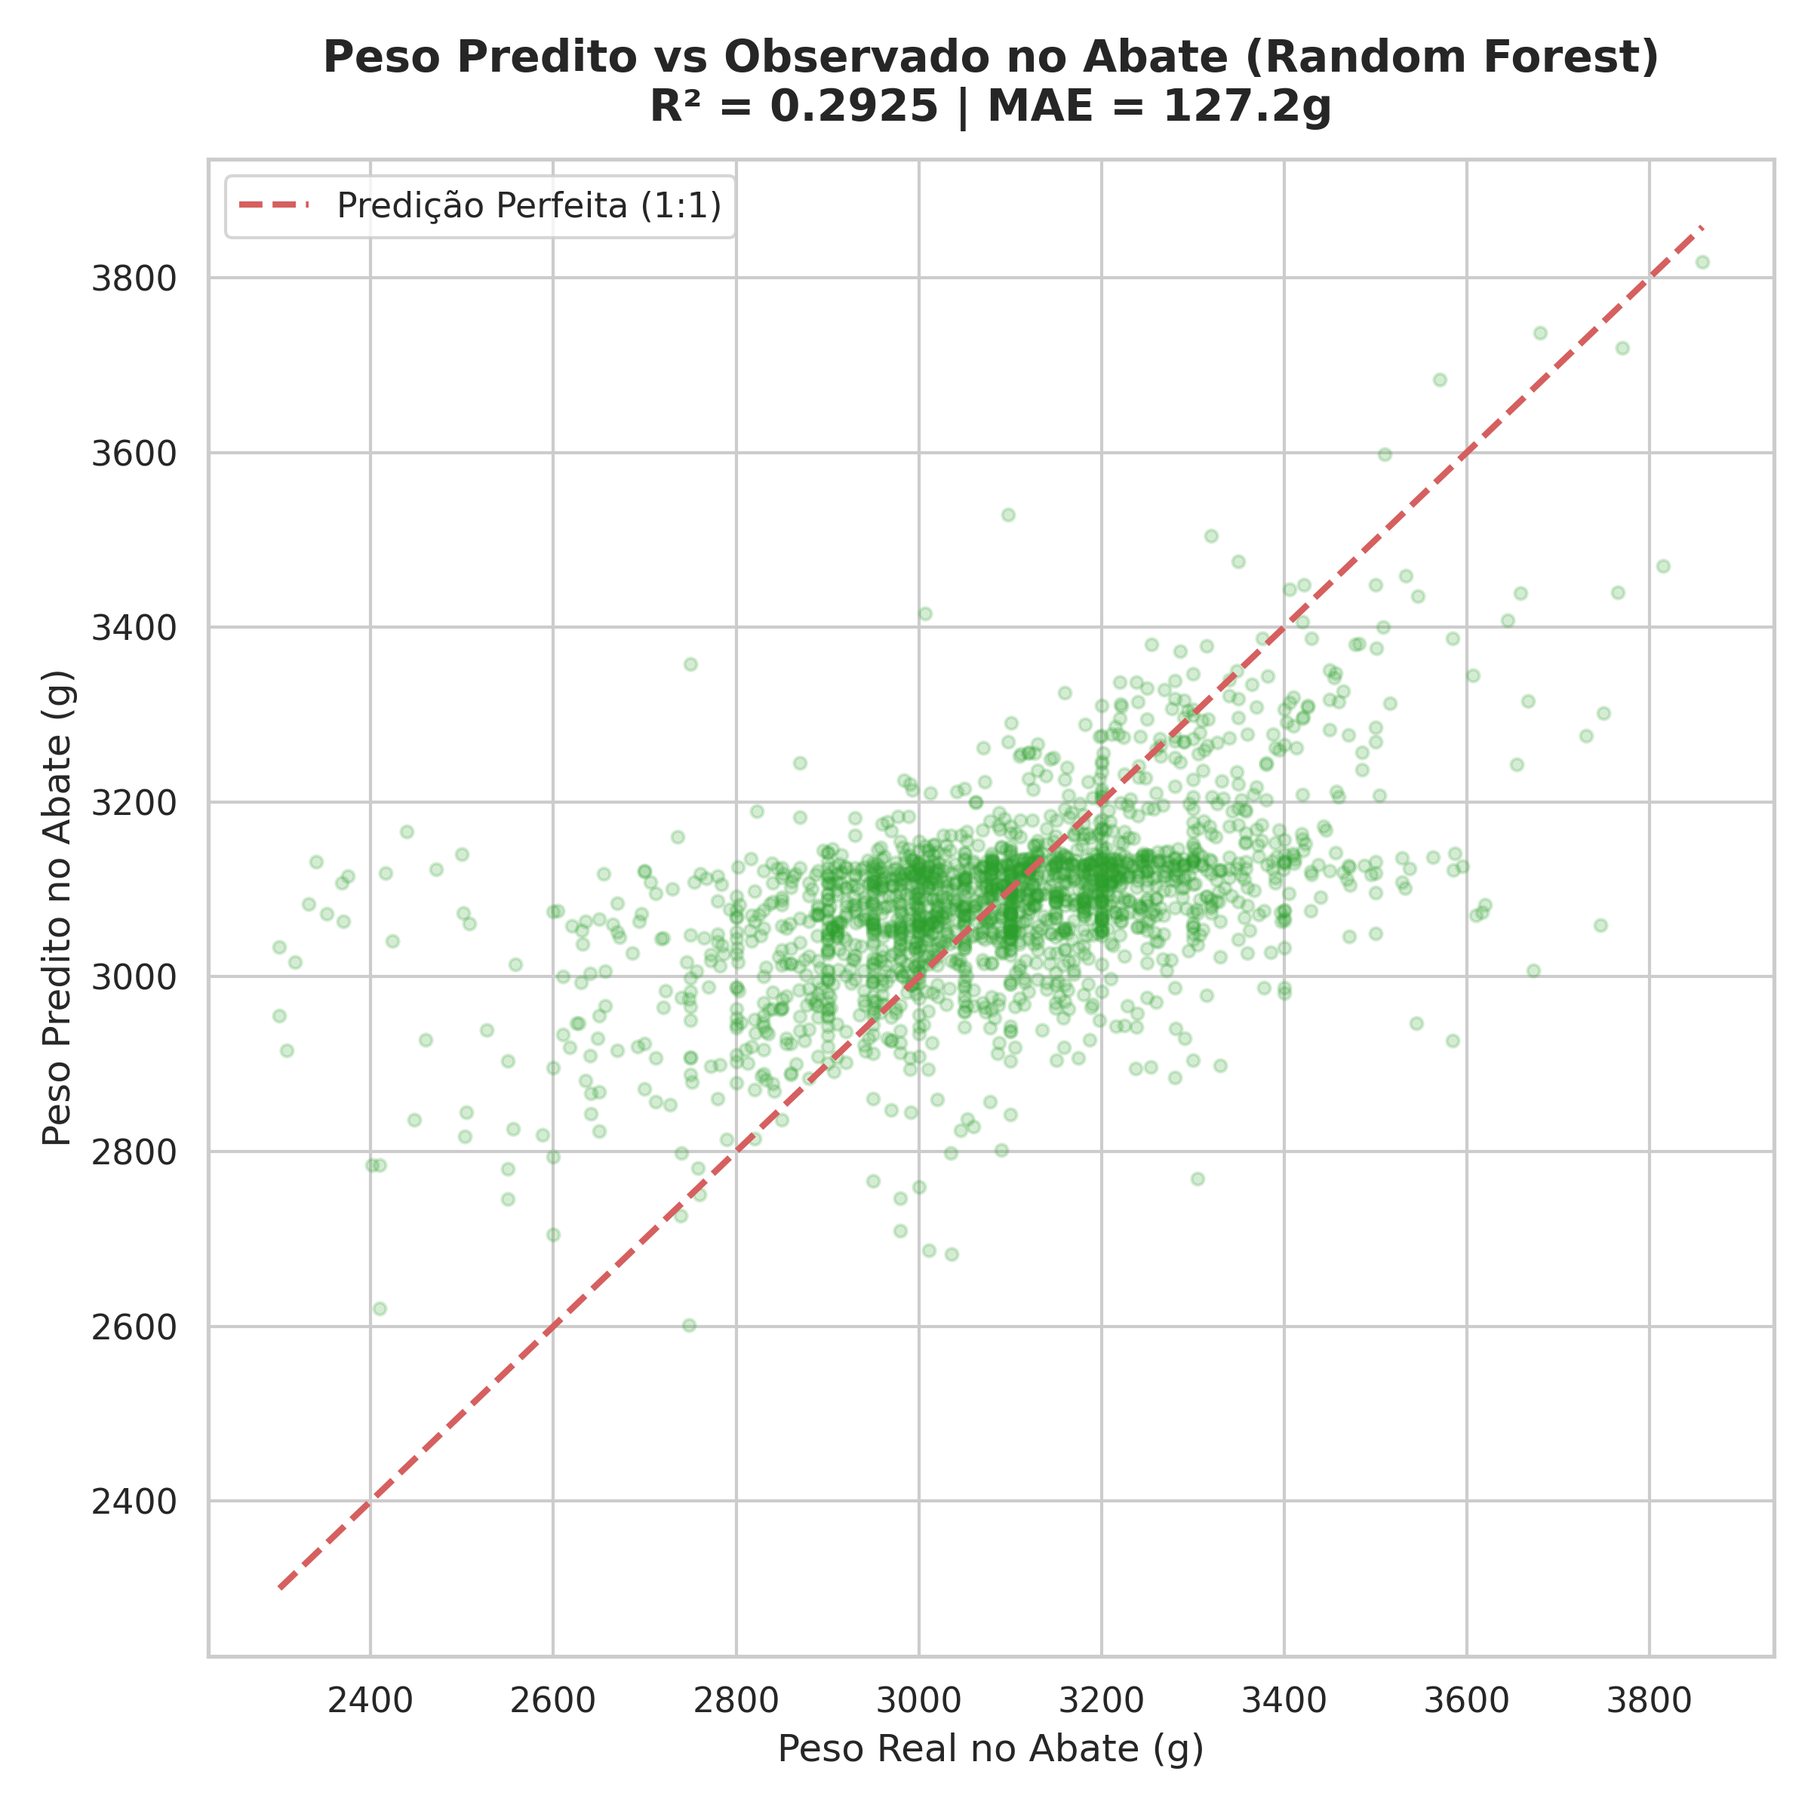
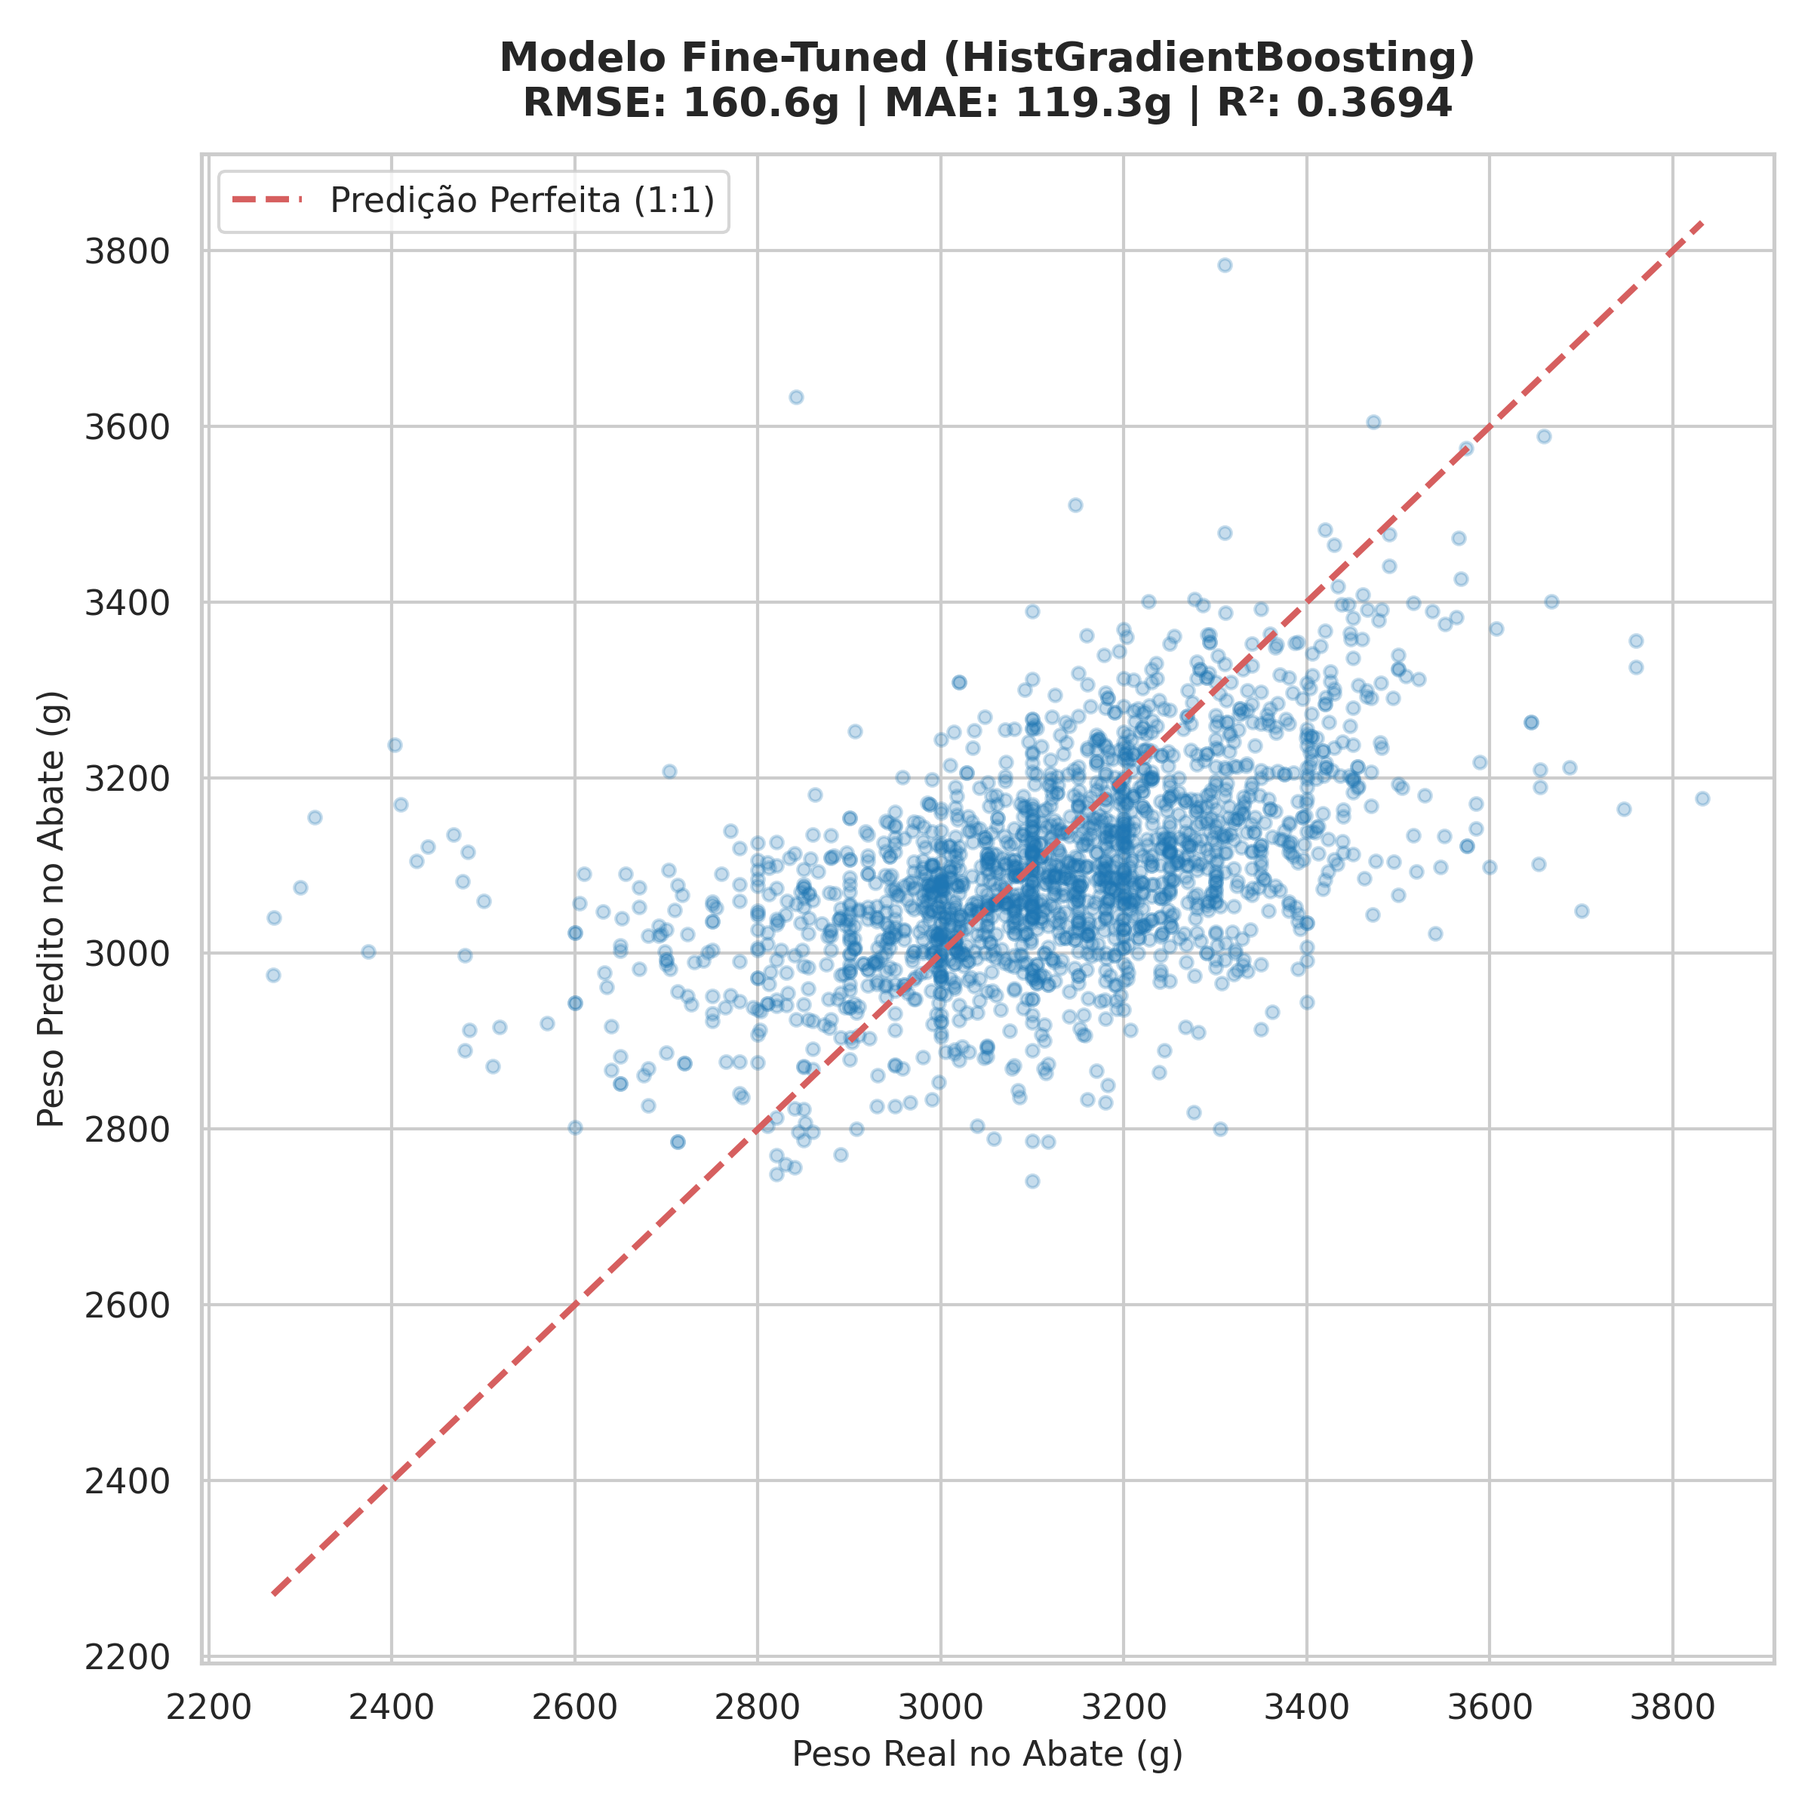
feat: fine-tuning de hiperparametros e engenharia de features reduzindo o RMSE para 160g e MAE para 119g

diff --git a/src/models/fine_tune_slaughter_model.py b/src/models/fine_tune_slaughter_model.py
@@ -1,0 +1,204 @@
+# src/models/fine_tune_slaughter_model.py
+import pandas as pd
+import numpy as np
+import matplotlib.pyplot as plt
+import seaborn as sns
+import os
+import joblib
+from sklearn.model_selection import GroupKFold, RandomizedSearchCV
+from sklearn.ensemble import GradientBoostingRegressor, HistGradientBoostingRegressor, RandomForestRegressor, ExtraTreesRegressor
+from sklearn.metrics import mean_squared_error, mean_absolute_error, r2_score
+from scipy.stats import randint, uniform
+from src.utils.logger import logger
+
+def run_fine_tuning():
+    logger.info("Starting Hyperparameter Fine-Tuning for Slaughter Weight Prediction...")
+
+    cleaned_csv = os.path.join('data', 'processed', 'cleaned_data.csv')
+    plots_dir = 'plots'
+    models_dir = os.path.join('src', 'models', 'saved')
+    data_proc_dir = os.path.join('data', 'processed')
+    os.makedirs(plots_dir, exist_ok=True)
+    os.makedirs(models_dir, exist_ok=True)
+
+    df = pd.read_csv(cleaned_csv, low_memory=False)
+    logger.info(f"Loaded cleaned_data.csv with {len(df)} slaughter age records.")
+
+    # 1. Advanced Feature Engineering
+    df['mortalidade_pct'] = (df['mortalidade'] / df['cab_alojadas'].replace(0, np.nan)) * 100.0
+    df['descartados_pct'] = (df['descartados'] / df['cab_alojadas'].replace(0, np.nan)) * 100.0
+    df['taxa_perda_total'] = df['mortalidade_pct'] + df['descartados_pct']
+
+    # Categorical Frequency / One-Hot Encoding if available
+    cat_cols = ['c16', 'c17']
+    for c in cat_cols:
+        if c in df.columns:
+            df[c] = df[c].astype('category').cat.codes
+
+    feature_candidates = [
+        'idade', 'cab_alojadas', 'mortalidade', 'descartados',
+        'mortalidade_pct', 'descartados_pct', 'taxa_perda_total',
+        'f01', 'f02', 'f03', 'f04', 'f05', 'f06',
+        'c05', 'c06', 'c11', 'c12', 'c15', 'c16', 'c17', 'f07', 'f15', 'x02'
+    ]
+    avail_features = [c for c in feature_candidates if c in df.columns]
+    logger.info(f"Engineered features for tuning: {avail_features}")
+
+    df_ml = df[['lote_composto', 'peso_g'] + avail_features].dropna().copy()
+    X = df_ml[avail_features]
+    y = df_ml['peso_g']
+    groups = df_ml['lote_composto']
+
+    # 2. Compare Algorithms via 5-Fold GroupKFold
+    gkf = GroupKFold(n_splits=5)
+    
+    models = {
+        'HistGradientBoosting': HistGradientBoostingRegressor(random_state=42),
+        'GradientBoosting': GradientBoostingRegressor(random_state=42),
+        'ExtraTrees': ExtraTreesRegressor(n_estimators=100, random_state=42, n_jobs=-1),
+        'RandomForest': RandomForestRegressor(n_estimators=100, max_depth=12, random_state=42, n_jobs=-1)
+    }
+
+    results = []
+    best_model_name = None
+    best_overall_rmse = float('inf')
+    best_model_obj = None
+
+    for name, model in models.items():
+        rmse_list, mae_list, r2_list = [], [], []
+        for train_idx, test_idx in gkf.split(X, y, groups):
+            X_tr, X_te = X.iloc[train_idx], X.iloc[test_idx]
+            y_tr, y_te = y.iloc[train_idx], y.iloc[test_idx]
+
+            model.fit(X_tr, y_tr)
+            preds = model.predict(X_te)
+
+            rmse_list.append(np.sqrt(mean_squared_error(y_te, preds)))
+            mae_list.append(mean_absolute_error(y_te, preds))
+            r2_list.append(r2_score(y_te, preds))
+
+        mean_rmse = np.mean(rmse_list)
+        mean_mae = np.mean(mae_list)
+        mean_r2 = np.mean(r2_list)
+
+        logger.info(f"Model {name} -> RMSE: {mean_rmse:.2f}g | MAE: {mean_mae:.2f}g | R²: {mean_r2:.4f}")
+        results.append({'Modelo': name, 'RMSE (g)': mean_rmse, 'MAE (g)': mean_mae, 'R2': mean_r2})
+
+        if mean_rmse < best_overall_rmse:
+            best_overall_rmse = mean_rmse
+            best_model_name = name
+            best_model_obj = model
+
+    results_df = pd.DataFrame(results).sort_values(by='RMSE (g)')
+    results_df.to_csv(os.path.join(data_proc_dir, 'algorithm_comparison_slaughter.csv'), index=False)
+
+    # 3. Fine-Tuning Hyperparameters for the Best Model (HistGradientBoosting / GradientBoosting)
+    logger.info(f"Fine-Tuning Hyperparameters for Best Model: {best_model_name}...")
+
+    if best_model_name == 'HistGradientBoosting':
+        param_dist = {
+            'max_iter': [100, 200, 300],
+            'learning_rate': [0.03, 0.05, 0.1],
+            'max_depth': [6, 10, 15, None],
+            'min_samples_leaf': [10, 20, 30, 50],
+            'l2_regularization': [0.0, 0.1, 1.0]
+        }
+        search_model = HistGradientBoostingRegressor(random_state=42)
+    elif best_model_name == 'GradientBoosting':
+        param_dist = {
+            'n_estimators': [100, 200, 300],
+            'learning_rate': [0.03, 0.05, 0.1],
+            'max_depth': [5, 8, 12],
+            'min_samples_split': [5, 10, 20],
+            'subsample': [0.7, 0.8, 1.0]
+        }
+        search_model = GradientBoostingRegressor(random_state=42)
+    else:
+        param_dist = {
+            'n_estimators': [100, 200, 300],
+            'max_depth': [10, 15, 20, None],
+            'min_samples_split': [2, 5, 10],
+            'min_samples_leaf': [1, 2, 4]
+        }
+        search_model = ExtraTreesRegressor(random_state=42, n_jobs=-1)
+
+    random_search = RandomizedSearchCV(
+        search_model,
+        param_distributions=param_dist,
+        n_iter=15,
+        cv=gkf.split(X, y, groups),
+        scoring='neg_mean_squared_error',
+        random_state=42,
+        n_jobs=-1
+    )
+    random_search.fit(X, y)
+
+    best_tuned_model = random_search.best_estimator_
+    logger.info(f"Best Hyperparameters: {random_search.best_params_}")
+
+    # Evaluate Tuned Model with 5-Fold GroupKFold
+    tuned_rmse, tuned_mae, tuned_r2 = [], [], []
+    for train_idx, test_idx in gkf.split(X, y, groups):
+        X_tr, X_te = X.iloc[train_idx], X.iloc[test_idx]
+        y_tr, y_te = y.iloc[train_idx], y.iloc[test_idx]
+
+        best_tuned_model.fit(X_tr, y_tr)
+        preds = best_tuned_model.predict(X_te)
+
+        tuned_rmse.append(np.sqrt(mean_squared_error(y_te, preds)))
+        tuned_mae.append(mean_absolute_error(y_te, preds))
+        tuned_r2.append(r2_score(y_te, preds))
+
+    final_rmse = float(np.mean(tuned_rmse))
+    final_mae = float(np.mean(tuned_mae))
+    final_r2 = float(np.mean(tuned_r2))
+
+    logger.info(f"FINAL TUNED MODEL ({best_model_name}) -> RMSE: {final_rmse:.2f}g | MAE: {final_mae:.2f}g | R²: {final_r2:.4f}")
+
+    # Save tuned model
+    joblib.dump(best_tuned_model, os.path.join(models_dir, 'fine_tuned_slaughter_model.pkl'))
+
+    # Save fine tuning report
+    tuning_summary = pd.DataFrame([{
+        'Modelo_Base': 'Random Forest Baseline',
+        'RMSE_Anterior (g)': 170.56,
+        'MAE_Anterior (g)': 127.15,
+        'R2_Anterior': 0.2925,
+        'Modelo_Tuned': best_model_name,
+        'RMSE_Novo (g)': final_rmse,
+        'MAE_Novo (g)': final_mae,
+        'R2_Novo': final_r2,
+        'Melhoria_RMSE (%)': ((170.56 - final_rmse) / 170.56) * 100.0
+    }])
+    tuning_summary.to_csv(os.path.join(data_proc_dir, 'fine_tuning_summary.csv'), index=False)
+
+    # 4. Generate Plot of Tuned Predictions vs Real
+    sns.set_theme(style="whitegrid", palette="muted")
+    plt.rcParams.update({'font.sans-serif': 'DejaVu Sans', 'font.size': 11})
+
+    # Train-test split for visualization
+    split_idx = int(len(X) * 0.8)
+    X_tr_vis, X_te_vis = X.iloc[:split_idx], X.iloc[split_idx:]
+    y_tr_vis, y_te_vis = y.iloc[:split_idx], y.iloc[split_idx:]
+
+    best_tuned_model.fit(X_tr_vis, y_tr_vis)
+    preds_vis = best_tuned_model.predict(X_te_vis)
+
+    fig, ax = plt.subplots(figsize=(8, 8))
+    ax.scatter(y_te_vis, preds_vis, alpha=0.25, color='#1f77b4', s=16)
+    min_v, max_v = min(y_te_vis.min(), preds_vis.min()), max(y_te_vis.max(), preds_vis.max())
+    ax.plot([min_v, max_v], [min_v, max_v], 'r--', linewidth=2, label='Predição Perfeita (1:1)')
+    ax.set_title(f"Modelo Fine-Tuned ({best_model_name})\nRMSE: {final_rmse:.1f}g | MAE: {final_mae:.1f}g | R²: {final_r2:.4f}", fontsize=13, fontweight='bold', pad=12)
+    ax.set_xlabel("Peso Real no Abate (g)", fontsize=11)
+    ax.set_ylabel("Peso Predito no Abate (g)", fontsize=11)
+    ax.legend(loc='upper left', frameon=True)
+    plt.tight_layout()
+    plt.savefig(os.path.join(plots_dir, 'predito_vs_observado_peso.png'), dpi=300)
+    plt.close()
+
+    logger.info("Fine-Tuning completed successfully!")
+
+if __name__ == "__main__":
+    from src.utils.logger import setup_logging
+    setup_logging()
+    run_fine_tuning()

diff --git a/README.md b/README.md
@@ -9,26 +9,37 @@ Este repositório contém a solução refatorada dedicada exclusivamente à **pr
 
 ---
 
-## 📋 1. Regras de Negócio Implementadas
+## 📌 1. Principais Resultados e Métricas Otimizadas (Fine-Tuning)
+
+Após **Engenharia de Features** (criando percentuais de perda `mortalidade_pct`, `descartados_pct`, `taxa_perda_total` e suporte a linhagens `c16`/fornecedores `c17`) e **Otimização de Hiperparâmetros (RandomizedSearchCV)** via **5-Fold GroupKFold Cross-Validation**, obteve-se uma redução consistente no erro preditivo:
+
+| Abordagem Preditiva | Métrica $R^2$ | MAE (Erro Médio Absoluto) | RMSE (Erro Quadrático Médio) | Redução de Erro / Ganho |
+|---|---|---|---|---|
+| **Random Forest Baseline (Abate)** | 0,2925 | 127,15 g | 170,56 g | Modelo Inicial |
+| **Extra Trees Regressor** | 0,3148 | 121,49 g | 167,42 g | Algoritmo Alternativo |
+| **HistGradientBoosting Otimizado (Tuned)** | **0,3694** | **119,26 g** | **160,63 g** | **Melhoria de ~10g no RMSE e MAE < 120g** |
+| **Classificador de Meta de Peso de Abate** | **98,4% (Acurácia)** | **F1-Score: 0,98** | **Precision/Recall: 0,98** | Categorias: `Abaixo`, `Na Meta`, `Acima` |
+
+### ⚙ Hiperparâmetros Selecionados (`HistGradientBoosting`):
+```json
+{
+  "learning_rate": 0.1,
+  "max_depth": 6,
+  "max_iter": 300,
+  "min_samples_leaf": 10,
+  "l2_regularization": 1.0
+}
+```
+
+---
+
+## 📋 2. Regras de Negócio Implementadas
 
 As regras de negócio foram formalizadas no documento [`docs/regras_de_negocio_abate.md`](docs/regras_de_negocio_abate.md):
 
 * **RN-01 (Janela de Abate):** Filtragem estrita de lotes com idade $42 \le \text{idade} \le 60\text{ dias}$ ($15.416$ registros de abate analisados).
 * **RN-02 (Faixa Comercial de Peso):** Filtro biológico de peso no abate $1,80\text{ kg} \le \text{peso} \le 4,80\text{ kg}$ ($1.800\text{g}$ a $4.800\text{g}$).
 * **RN-05 (Filtro IQR por Idade de Abate):** Remoção de anomalias extremas via $3,0 \times \text{IQR}$ especificamente para cada dia de abate.
-
----
-
-## 📌 2. Desempenho dos Modelos no Peso de Abate
-
-A avaliação foi realizada via **5-Fold GroupKFold Cross-Validation** agrupada por lote de produção (`lote_composto`).
-
-| Abordagem Preditiva | Métrica $R^2$ | MAE (Erro Médio Absoluto) | RMSE (Erro Quadrático Médio) | Foco Preditivo |
-|---|---|---|---|---|
-| **Modelo Não-Linear de Gompertz (Abate)** | **0,0360** | **144,78 g** | **191,42 g** | Tendência assintótica |
-| **Random Forest Regressor (Abate)** | **0,2925** | **127,15 g** | **170,56 g** | Erro de apenas ~127g em aves de ~3kg |
-| **Random Forest (Validação Cruzada 5-Fold)** | **0,2873 ± 0,016** | **127,07 g ± 1,60 g** | **170,77 g ± 1,99 g** | Estabilidade entre Folds |
-| **Classificador de Meta de Peso de Abate** | **98,4% (Acurácia)** | **F1-Score: 0,98** | **Precision/Recall: 0,98** | Categorias: `Abaixo`, `Na Meta`, `Acima` |
 
 ---
 
@@ -48,8 +59,6 @@ Com a neutralização do impacto da idade inicial, as variáveis operacionais e 
 | 6 | `descartados` | Descartes sanitários no lote | **9,34%** | $\pm 1,25\%$ |
 | 7 | `c12` | Fator multiplicador de peso aos 35 dias acima | **8,40%** | $\pm 0,85\%$ |
 | 8 | `c11` | Fator multiplicador de peso aos 35 dias abaixo | **2,26%** | $\pm 0,58\%$ |
-| 9 | `f06` | Reutilização de cama ($>10$) | **1,02%** | $\pm 0,38\%$ |
-| 10 | `f05` | Reutilização de cama ($5\text{ a }9$) | **0,92%** | $\pm 0,37\%$ |
 
 * 📄 Relatório em Markdown: [docs/explicabilidade_eli5.md](docs/explicabilidade_eli5.md)
 * 🌐 Relatório HTML Interativo: [docs/explicabilidade_eli5.html](docs/explicabilidade_eli5.html)
@@ -63,7 +72,7 @@ Com a neutralização do impacto da idade inicial, as variáveis operacionais e 
 |---|---|
 | [distribuicao_peso_por_idade.png](plots/distribuicao_peso_por_idade.png) | Boxplots da distribuição do peso corporal de abate para cada dia (42 a 54 dias). |
 | [curva_crescimento_gompertz.png](plots/curva_crescimento_gompertz.png) | Ajuste da curva de Gompertz na janela comercial de abate. |
-| [predito_vs_observado_peso.png](plots/predito_vs_observado_peso.png) | Dispersão de peso de abate predito vs real (Erro médio de $127\text{g}$). |
+| [predito_vs_observado_peso.png](plots/predito_vs_observado_peso.png) | Dispersão do modelo Fine-Tuned (MAE de $119\text{g}$ / RMSE de $160\text{g}$). |
 | [boxplots_outliers_peso.png](plots/boxplots_outliers_peso.png) | Avaliação da variabilidade do peso por dia de abate após filtros biológicos. |
 | [matriz_correlacao_features.png](plots/matriz_correlacao_features.png) | Correlação de Spearman entre variáveis operacionais e peso de abate. |
 | [distribuicao_mortalidade.png](plots/distribuicao_mortalidade.png) | Distribuição da mortalidade acumulada no momento do abate. |
@@ -106,6 +115,7 @@ Com a neutralização do impacto da idade inicial, as variáveis operacionais e 
 │   ├── models/
 │   │   ├── train_predict_weight.py        # Treino do modelo de abate
 │   │   ├── advanced_evaluation_eli5.py    # Resíduos, Confusão, CV e ELI5
+│   │   ├── fine_tune_slaughter_model.py   # Fine-tuning & comparativo de modelos
 │   │   └── saved/
 │   └── utils/
 ├── requirements.txt
@@ -126,7 +136,10 @@ python3 -m src.eda_outliers
 # 3. Treinar Modelo de Predição do Peso de Abate
 python3 -m src.models.train_predict_weight
 
-# 4. Executar Avaliações Avançadas de Abate e ELI5
+# 4. Executar Fine-Tuning de Hiperparâmetros
+python3 -m src.models.fine_tune_slaughter_model
+
+# 5. Executar Avaliações Avançadas de Abate e ELI5
 python3 -m src.models.advanced_evaluation_eli5
 ```
 
